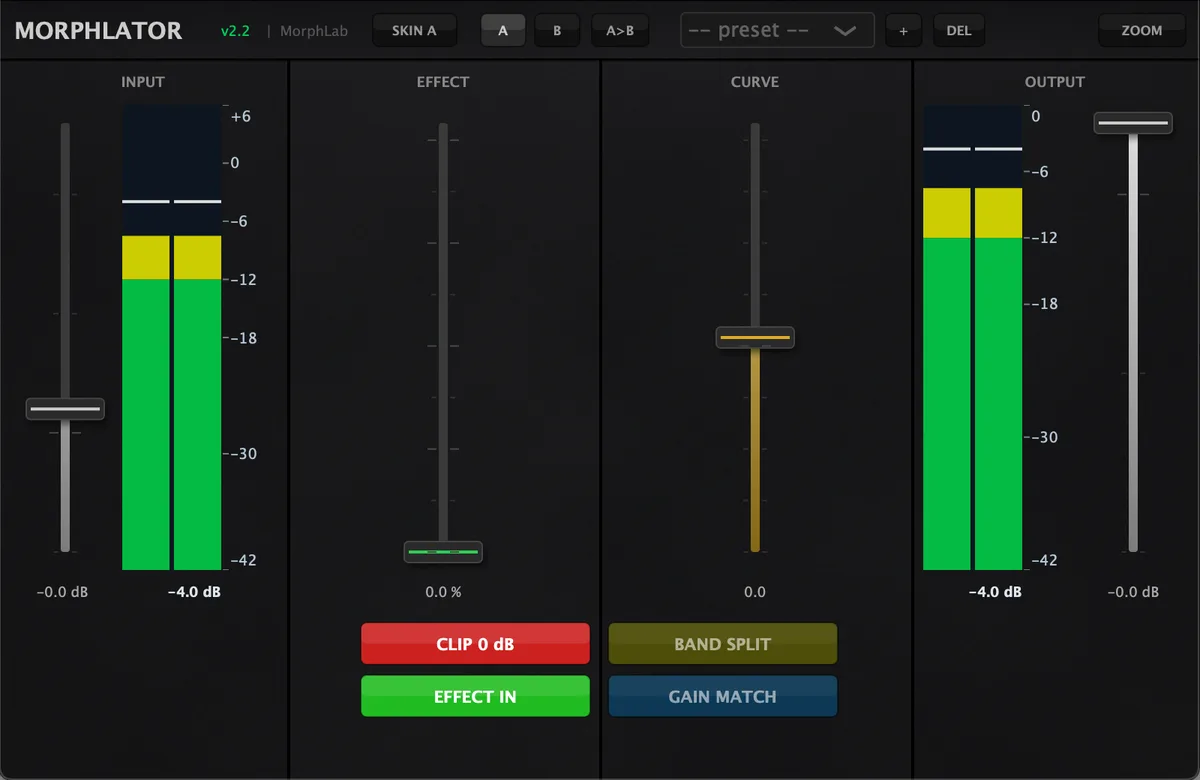
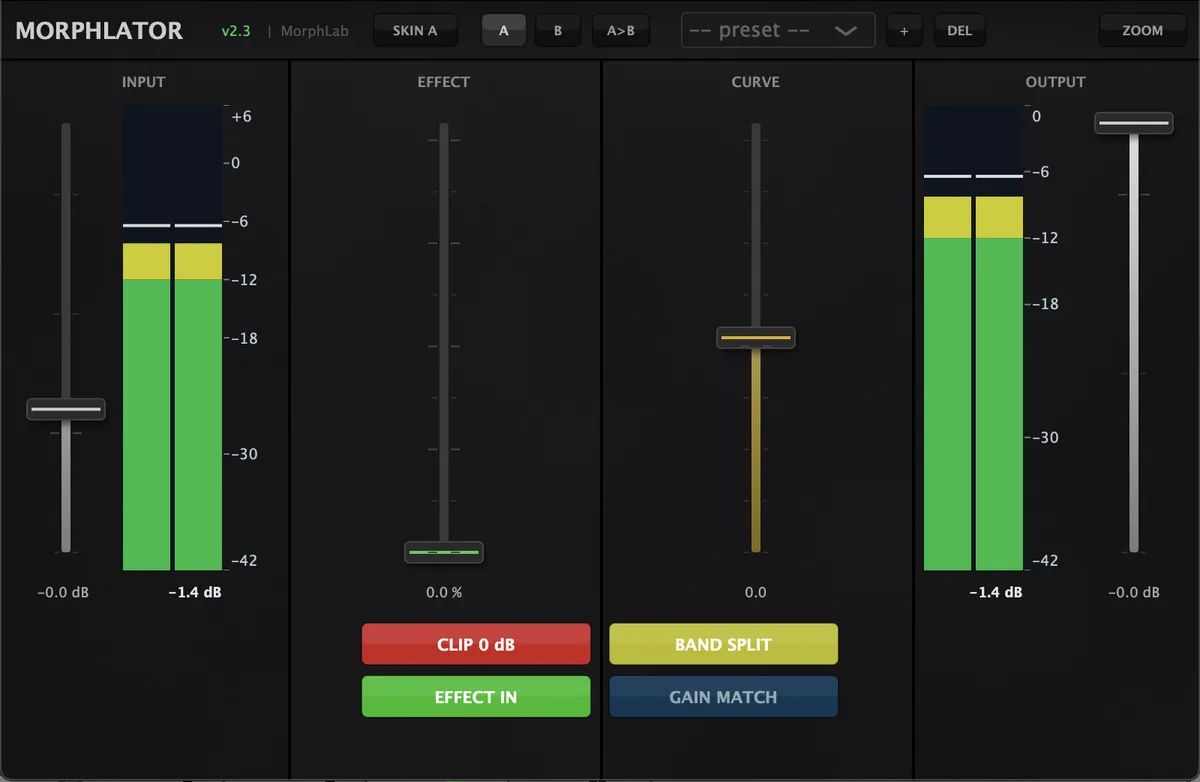
MorPhlator 2.3: zoom 50-200%, BAND SPLIT senza clic; 2.2 in archivio
Claude-Session: https://claude.ai/code/session_012eAqbqRQy8pDZqQLtCA9wC

diff --git a/assets/site.js b/assets/site.js
@@ -19,8 +19,8 @@ const PRODUCTS = [
     released:"2026-10-30", older:[{ version:"2.7", released:"2026-10-15" }],
     tag:"Multiband transient saturator",
     text:"Brings the transient forward, in your face, without degrading the signal. Each band reacts only to its own hits while the sustain stays clean. Five saturation types including Transformer, per-band power and solo on the spectrum." },
-  { id:"morphlator", file:"MorPhlator", name:"MorPhlator", version:"2.2", group:"plugins",
-    released:"2026-10-05", older:[],
+  { id:"morphlator", file:"MorPhlator", name:"MorPhlator", version:"2.3", group:"plugins",
+    released:"2026-10-31", older:[{ version:"2.2", released:"2026-10-05" }],
     tag:"Multiband harmonic exciter",
     text:"Adds weight and perceived loudness by reshaping the waveform, not by compressing it. Optional three-band split keeps the low end tight, and Gain Match gives you an honest A/B at equal loudness." },
   { id:"morphalign", file:"MorPhalign", name:"MorPhalign", version:"3.2", group:"plugins",
